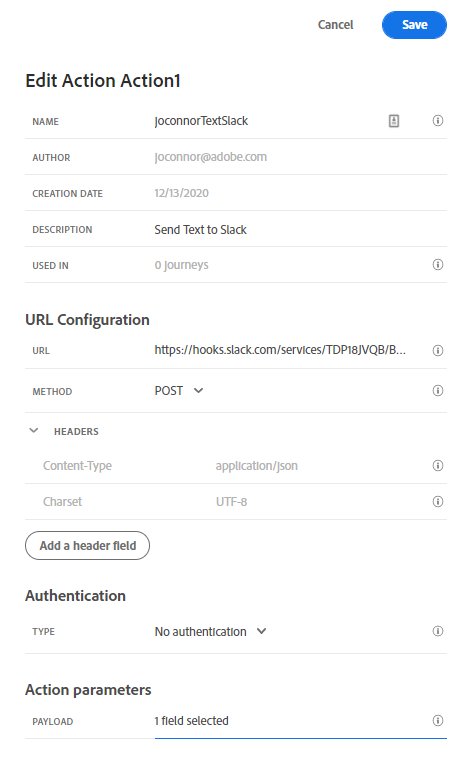
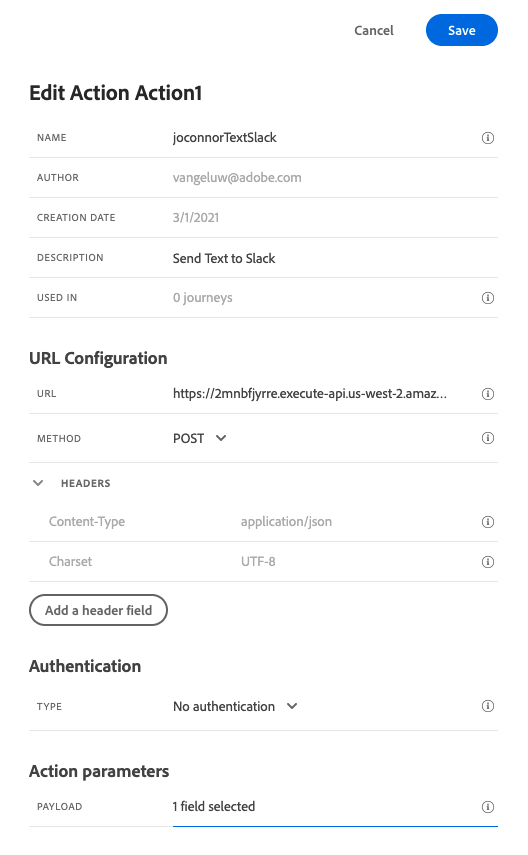
various updates

diff --git a/help/tutorial-comprehensive-technical-v21/videos.md b/help/tutorial-comprehensive-technical-v21/videos.md
@@ -29,7 +29,9 @@ activity: develop
 |Showpad|Closing the loop between online and in-person customer engagement with Adobe Experience Platform and Showpad|[VIDEO](https://video.tv.adobe.com/v/36363?quality=12&learn=on)|
 |Smart Digital|Connecting Smart Digital’s Real-time Machine Learning service to Adobe Experience Platform (Part 1) |[VIDEO](https://video.tv.adobe.com/v/36324?quality=12&learn=on)|
 |Smart Digital|Connecting Smart Digital’s Real-time Machine Learning service to Adobe Experience Platform Real-time CDP (Part 2)|[VIDEO](https://video.tv.adobe.com/v/327187?quality=12&learn=on)|
+|Sprinklr| Closing the loop between customer behavior across social media (modern channels) and owned media (website/app) with Adobe Experience Platform and Sprinklr | [VIDEO](https://video.tv.adobe.com/v/331779?quality=12&learn=on) |
 |Stackchat| Contextual, bi-directional personalization between FB Messenger, WeChat, … and AEP | [VIDEO](https://video.tv.adobe.com/v/35846?quality=12&learn=on) |
+
 
 ## Demo Videos
 

diff --git a/help/tutorial-comprehensive-technical-v21/modules/module12/ex3.md b/help/tutorial-comprehensive-technical-v21/modules/module12/ex3.md
@@ -150,8 +150,12 @@ Set Description to: `Send Text to Slack`.
 
 For the **URL Configuration**, use this:
 
-* URL: `https://hooks.slack.com/services/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`
+* URL: `https://2mnbfjyrre.execute-api.us-west-2.amazonaws.com/prod`
 * Method: **POST**
+
+>[!NOTE]
+>
+>The above URL refers to an AWS Lambda function which will then forward your request to the Slack channel as mentioned above. This is done to protect access to an Adobe-owned Slack channel. If you have your own Slack channel, you should create a Slack App through [https://api.slack.com/](https://api.slack.com/), you then need to create an Incoming Webhook in that Slack App, and then replace the above URL by your Incoming Webhook URL.
 
 You don't need to change the Header Fields.
 
